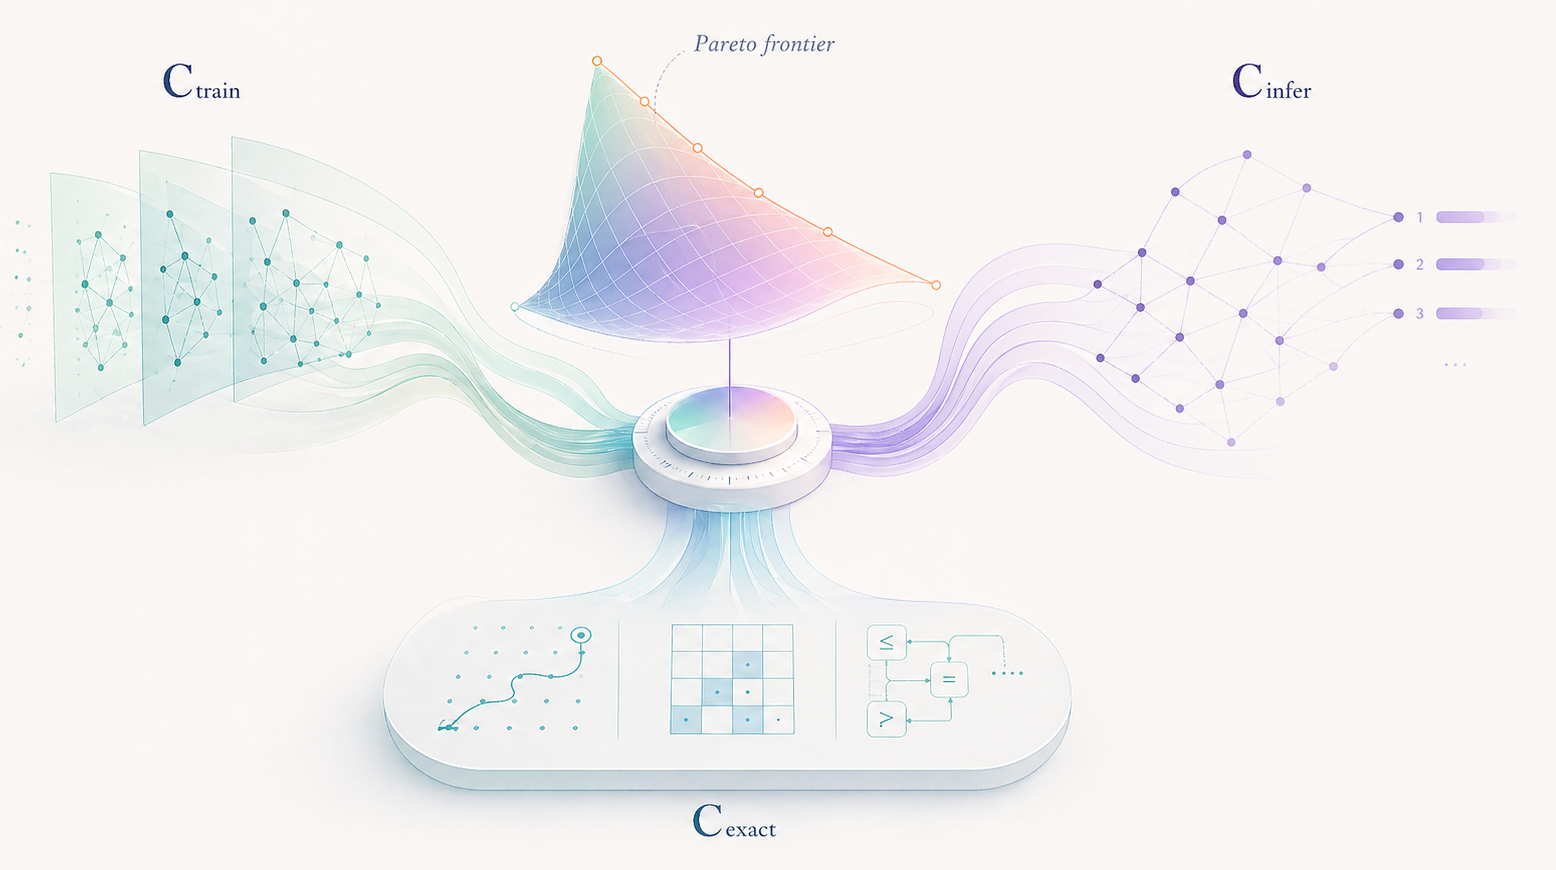
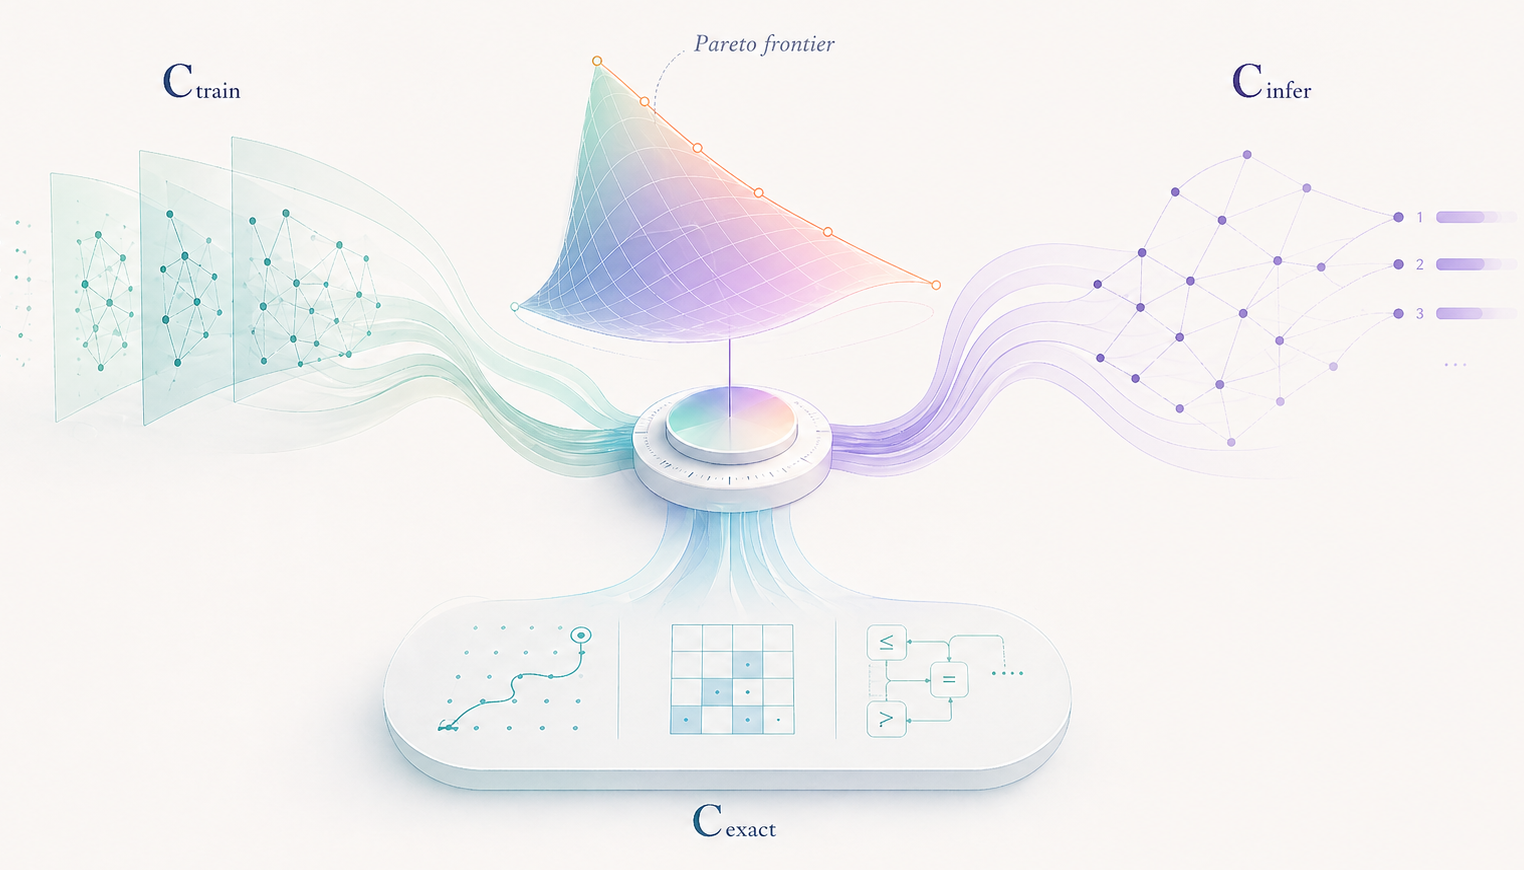
change  allocation illustration

diff --git a/blogs/compute-allocation.html b/blogs/compute-allocation.html
@@ -1601,7 +1601,7 @@
             <div><p class="centered-equation">\(C_{train} : C_{infer} : C_{exact} \approx 18\% : 80\% : 2\%\)</p>
             <p>This data is based on public Stockfish reports that imply \(\approx 26\) ELO gain from doubling of train compute (as described in SFNNv6), \(\approx 110\) ELO gain from doubling of inference-time compute (obtained from data on 20% time odds ELO change), and \(\approx 3\) ELO gain from doubling of exact compute (Syzygy tablebases). It follows that the optimal ratios can be computed by maximizing the ELO:</p>
             <div><p class="centered-equation">\(\mathrm{Maximize\;\;} E(C) \approx 25 \log_2 C_{train} + 110 \log_2 C_{infer} + 3 \log_2 C_{exact}\)</p><p class="centered-equation">\(\mathrm{s.t.\;\;\;} C_{train} + C_{infer} + C_{exact} = C\)</p></div>
-            <p>Note that these compute budgets are measured in some form of normalized TFLOPs.</p>
+            <p>Note that training happens <i>once</i>, while test-time inference and exact algorithms are used <i>every</i> game. Obviously, people don't allocate 4 times more compute on a single game inference than on training. If you know the number of games \(N\) in advance, it is easy to find that the optimal allocation budgets change to \((18N\% : 80\% : 2\%)\). Note that in scientific discovery applications, the inference may happen only a couple of times.</p>
             <h3>Example 2: AI for Science, AlphaTensor, AlphaEvolve</h3>
             <p>DeepMind has built many AI systems for search and discovery: AlphaZero, AlphaFold, AlphaTensor<sup><a href="#fn6" data-note="AlphaTensor is DeepMind's reinforcement-learning system for discovering faster matrix multiplication algorithms.">6</a></sup>, AlphaEvolve<sup><a href="#fn7" data-note="AlphaEvolve is DeepMind's LLM-powered evolutionary coding agent for algorithm discovery and optimization.">7</a></sup>, AlphaProof<sup><a href="#fn8" data-note="AlphaProof is DeepMind's AlphaZero-inspired reinforcement-learning system for formal mathematical reasoning in Lean.">8</a></sup>. Some of their results were later improved<sup><a href="#fn9" data-note="FICO reports Xpress Optimization surpassing some AlphaEvolve results; Kauers and Moosbauer improved AlphaTensor's 5x5 matrix multiplication using flip graph search.">9</a></sup> by adding classical CS algorithms and search techniques. Here I provide a table that shows compute allocation in these systems, highlights potential improvements in design, and show how \(C_{exact}\) naturally puts everything in place.</p>
 